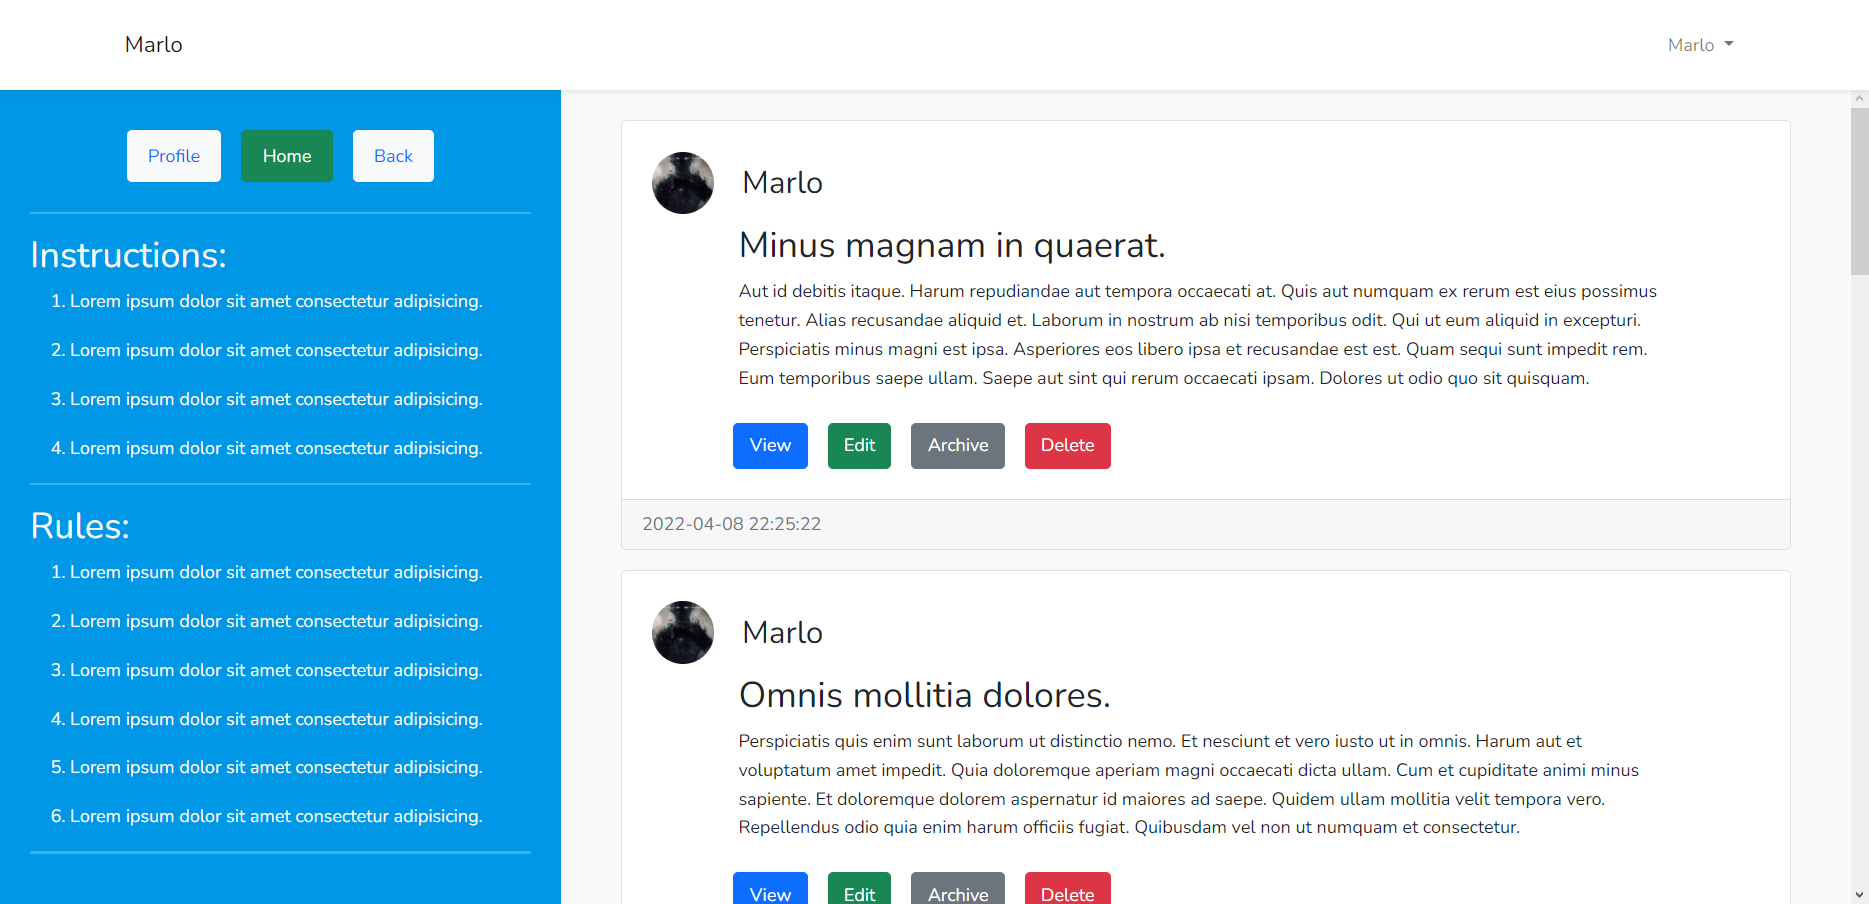
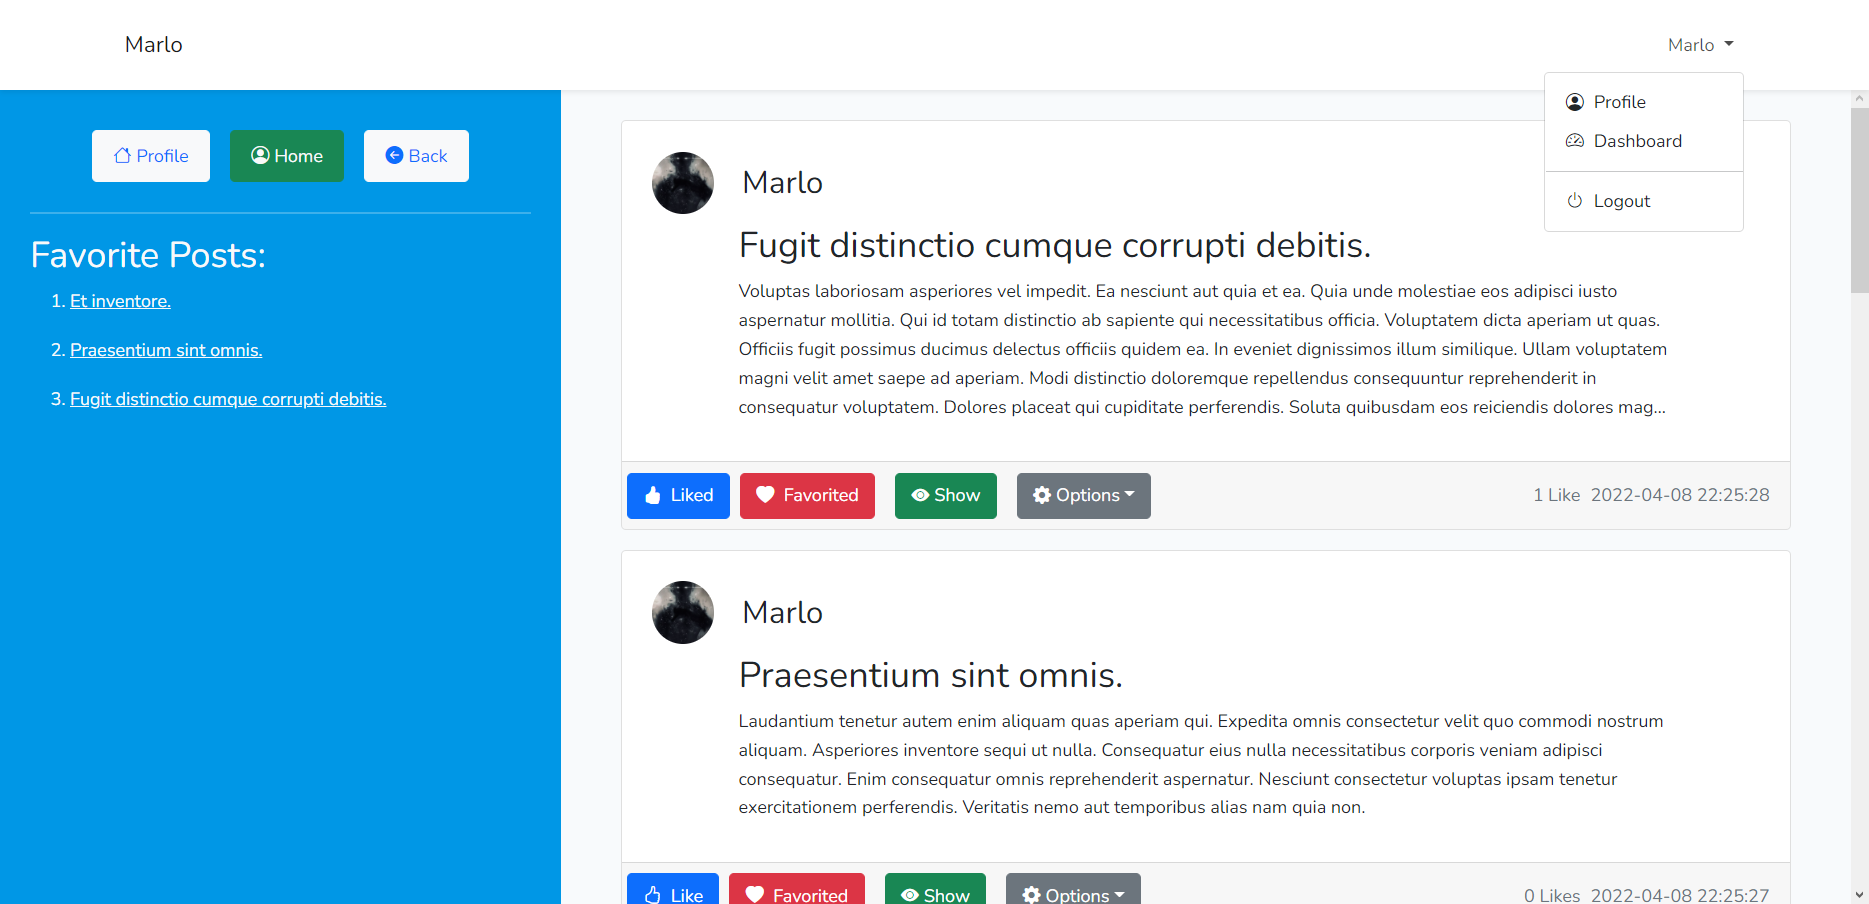
gallery & readme

diff --git a/README.md b/README.md
@@ -18,6 +18,8 @@ This project is a simple CRUD bloger were you have an Admin who can post and use
 ![photo 5](/gallery/PB-5.png)
 ![photo 6](/gallery/PB-6.png)
 ![photo 7](/gallery/PB-7.png)
+![photo 8](/gallery/PB-8.png)
+![photo 9](/gallery/PB-9.png)
 
 ***
 
@@ -30,6 +32,8 @@ This project is a simple CRUD bloger were you have an Admin who can post and use
 * CKEditor for Posts & Comments.
 * Users & Admin can Update **their Own** Informations in profile.
 * Admin has a small dashboard.
+* Users & Admin can Like or Favorite a **Post**.
+* Users & Admin can Like a **Comment**.
 
 
 ## How to Start
